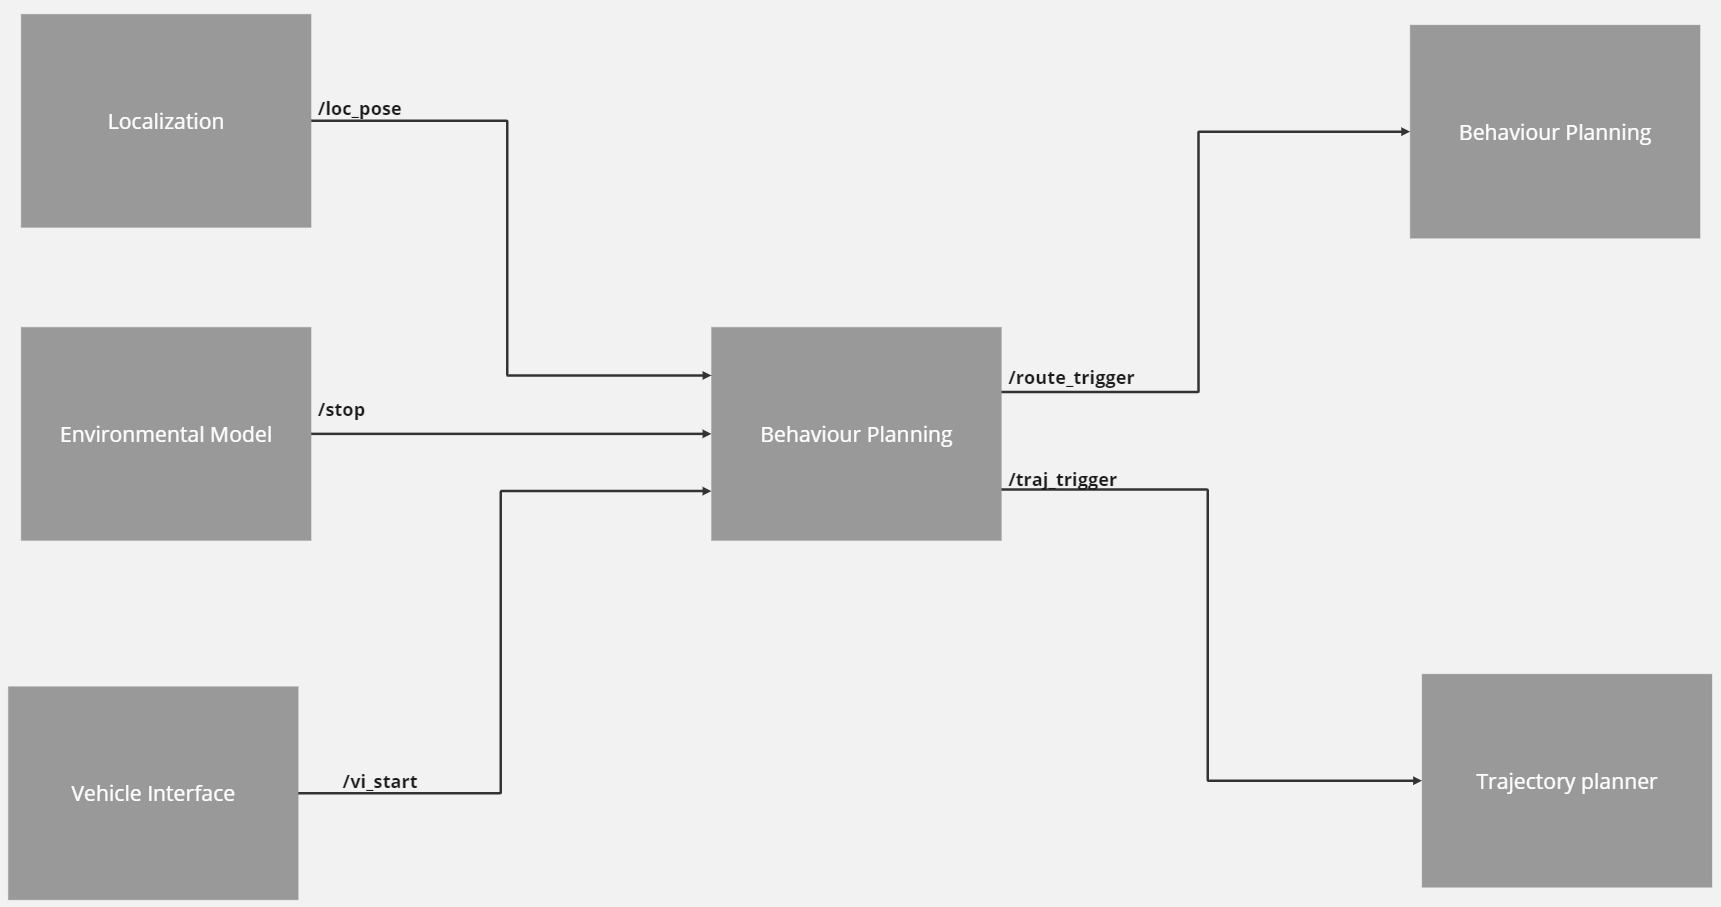
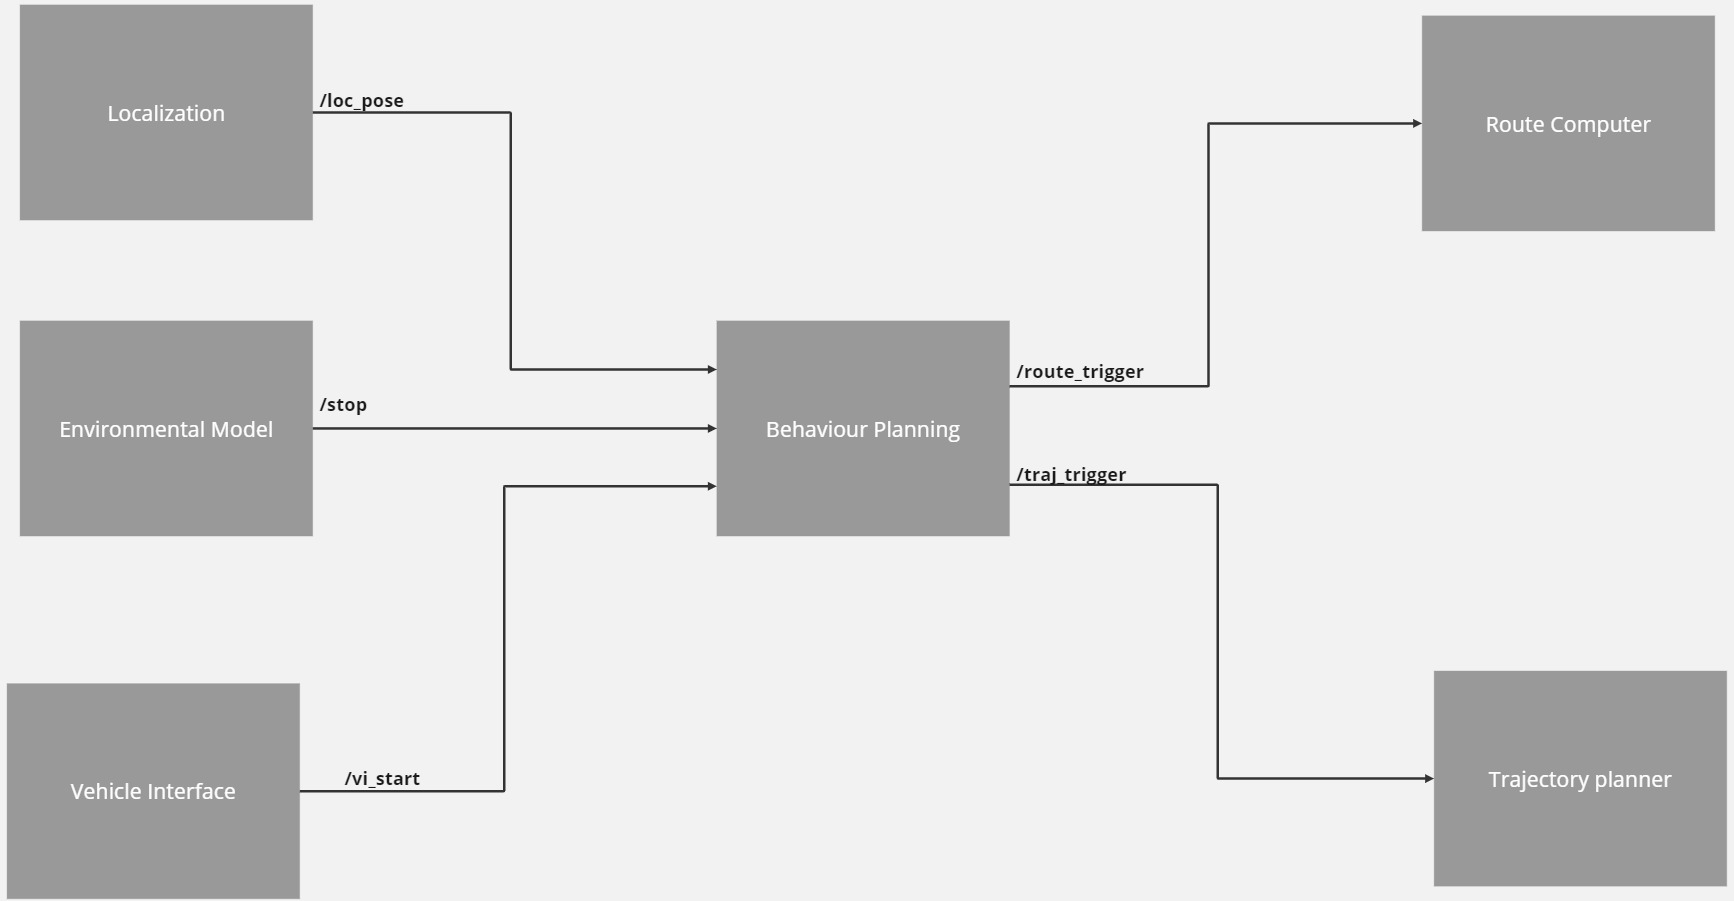
Update Block diagram

diff --git a/README.MD b/README.MD
@@ -47,7 +47,7 @@ State 5: Park
 
 ## Behaviour Planning Block Diagram
 
- <img src="images\behplan.jpg" alt="Behaviour Planning Block Diagram" title="Behaviour Planning" width="611" height="241">
+ <img src="images\behplan.jpg" alt="Behaviour Planning Block Diagram" title="Behaviour Planning" width="1734" height="901">
 
 
 
@@ -58,7 +58,7 @@ State 5: Park
  4. adapt_vi
  5. adapt_trajp
  6. yasmin: https://github.com/uleroboticsgroup/yasmin
- (Note: Please install yasmin on your system before running behaviour planning node)
+(Note: Please install yasmin on your system before running behaviour planning node)
 
 
  ## Installation Instructions